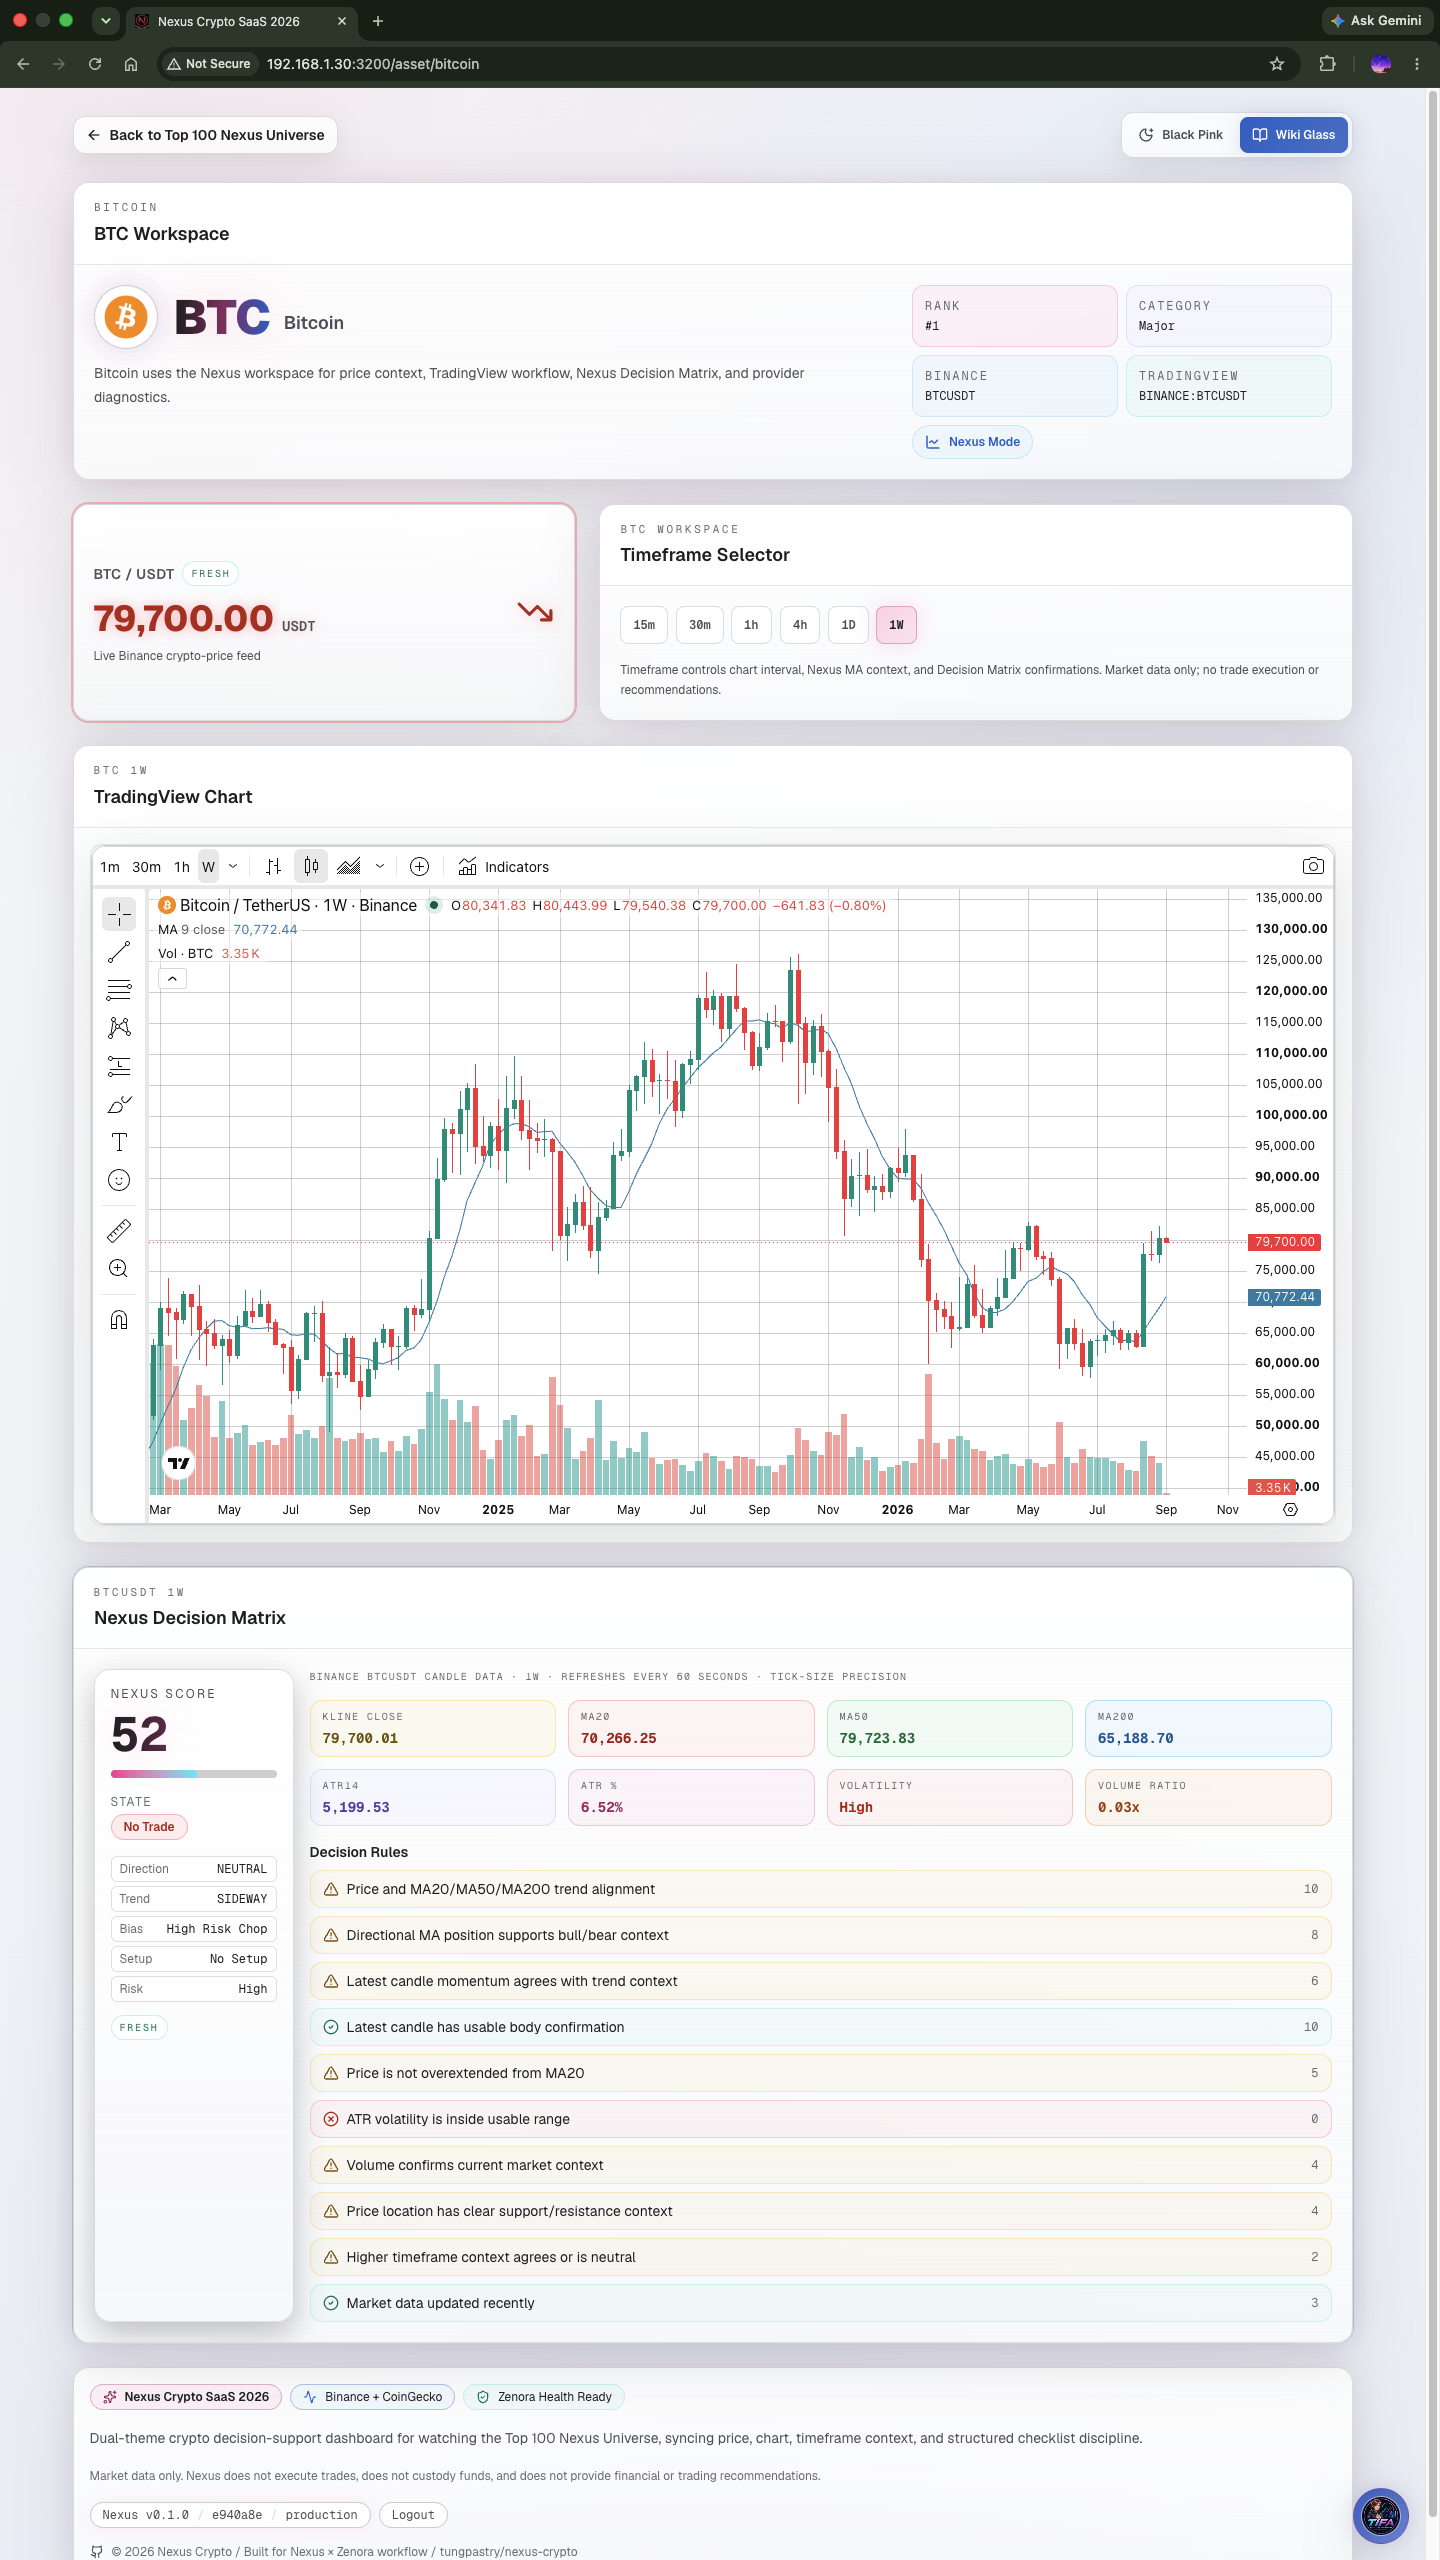
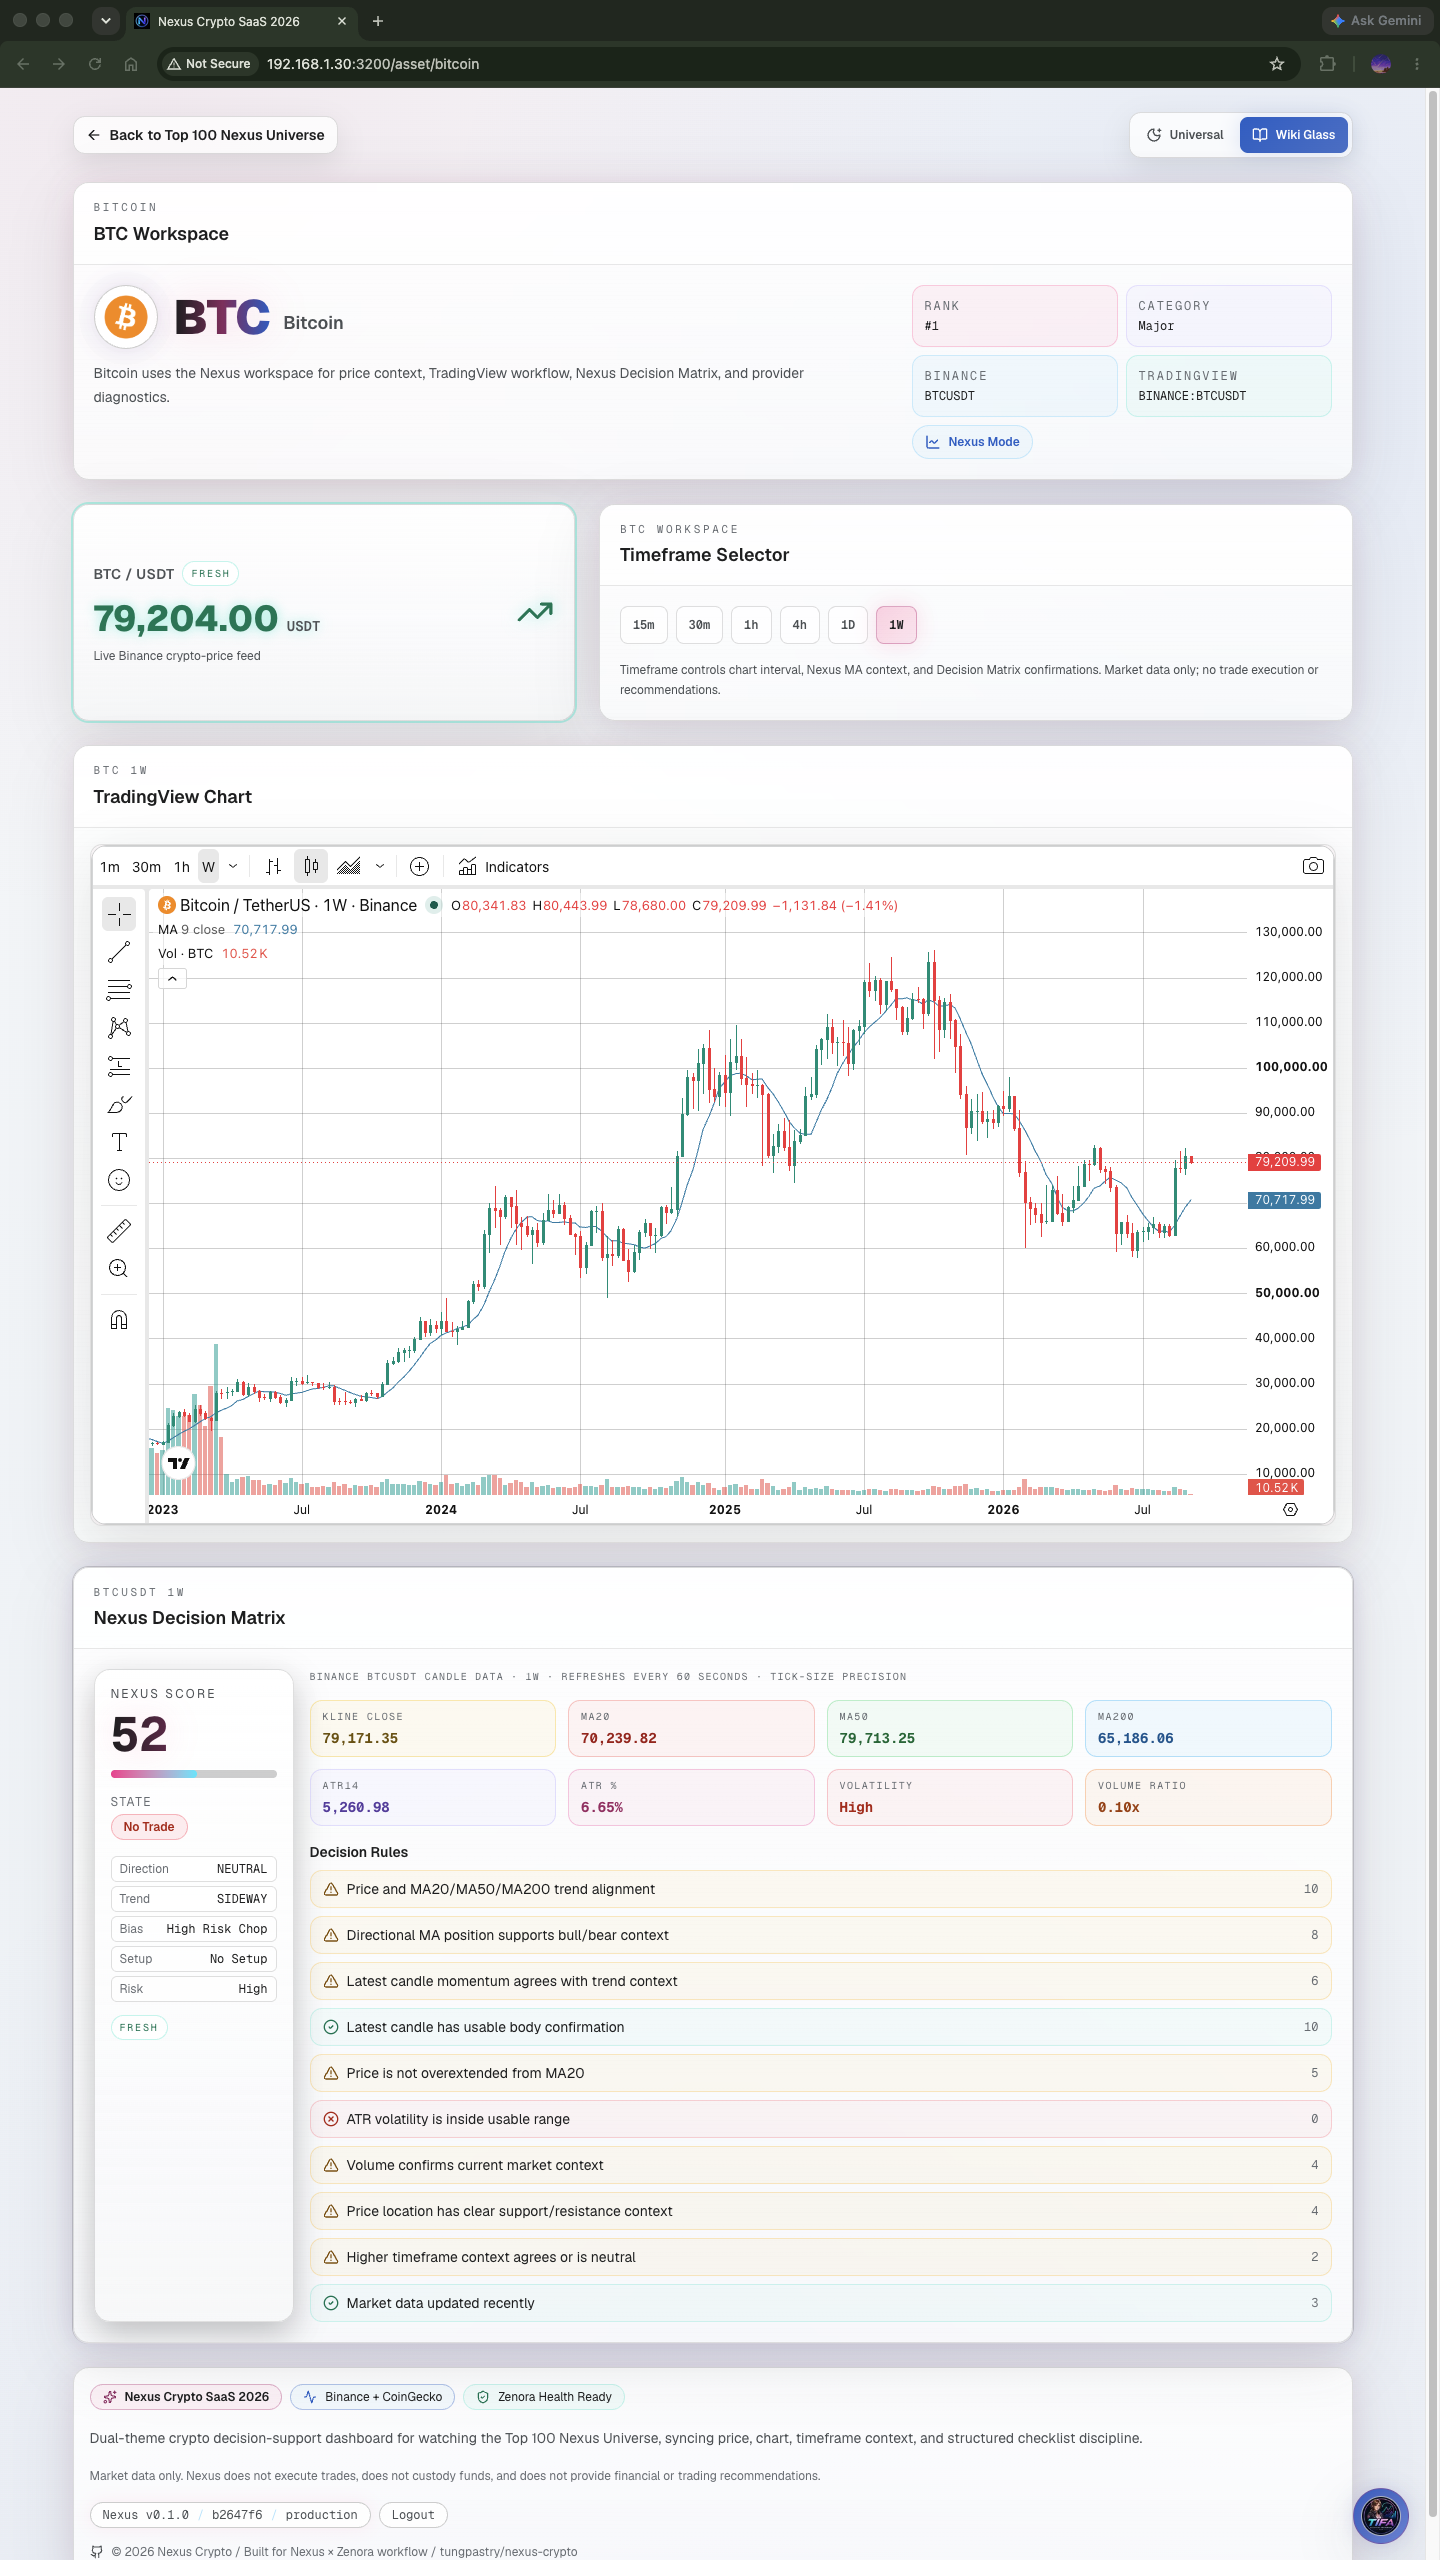
docs(readme): refresh verified runtime screenshots

diff --git a/README.md b/README.md
@@ -21,31 +21,31 @@ Nexus Crypto is market-data-first decision-support software. It does not execute
 
 ## Web App Screenshots
 
-These screenshots were captured from the verified Ubuntu runtime in Wikipedia Glass mode. Market values are point-in-time and do not represent current prices.
+These screenshots were captured from the verified Ubuntu runtime at commit `b2647f6` in Wikipedia Glass mode after the Crypto Universal 2026 rollout. Market values are point-in-time and do not represent current prices.
 
 ### Home Dashboard
 
 ![Home Dashboard](public/screenshots/home-dashboard.png)
 
-*Top 100 market snapshot, filters, sorting, and 25-row watchlist pagination.*
+*Top 100 market snapshot with search, filters, sorting, and 25-row watchlist pagination.*
 
 ### Asset Workspace (BTC)
 
 ![Asset Workspace BTC](public/screenshots/asset-workspace-btc.png)
 
-*BTC workspace with Binance tick-size price display, TradingView, and the Nexus Decision Matrix.*
+*BTC workspace with Binance tick-size price display, TradingView context, and the Nexus Decision Matrix.*
 
 ### Ops Dashboard
 
 ![Ops Dashboard](public/screenshots/ops-dashboard.png)
 
-*Lightweight readiness, eight-canary deep health, and active Ollama provider status.*
+*Lightweight readiness, eight-canary deep health, and active Ollama provider diagnostics.*
 
 ### Tifa Widget
 
 ![Tifa Widget](public/screenshots/tifa-widget.png)
 
-*Grounded TifaWidget analysis embedded in the BTC asset workspace.*
+*Grounded Ollama-backed TifaWidget analysis embedded in the BTC asset workspace.*
 
 ## Current Verified Baseline
 
